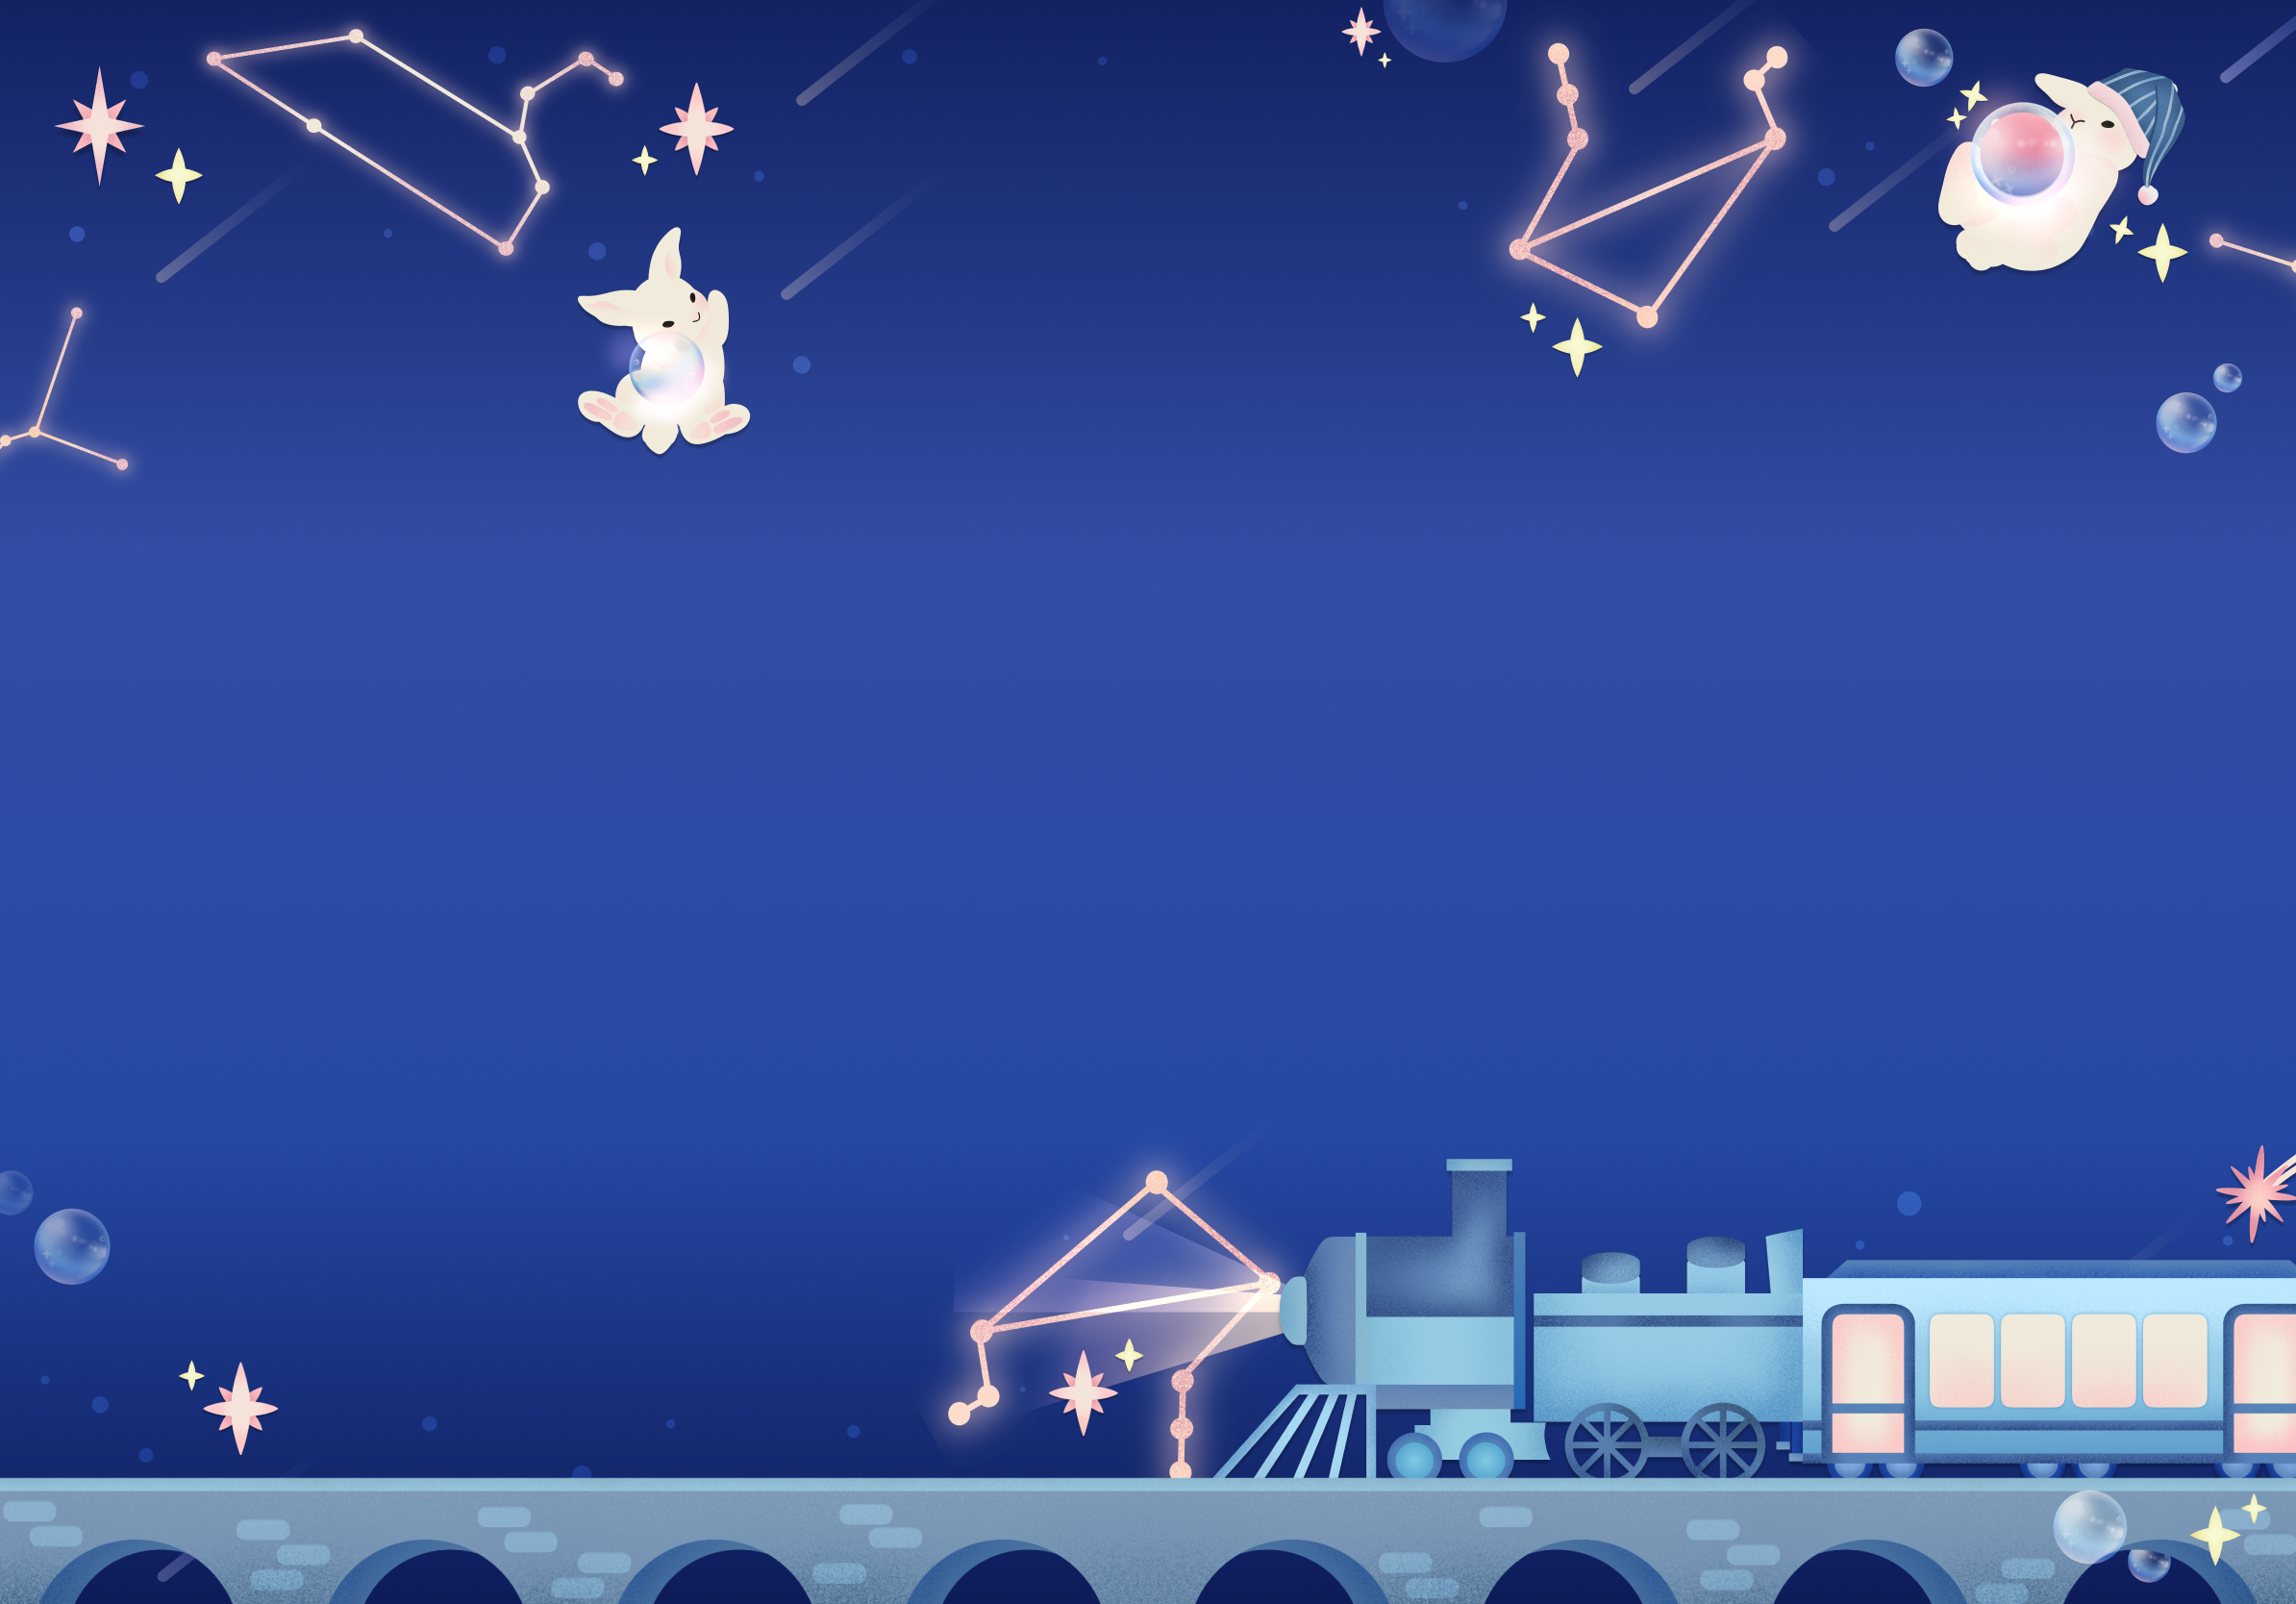
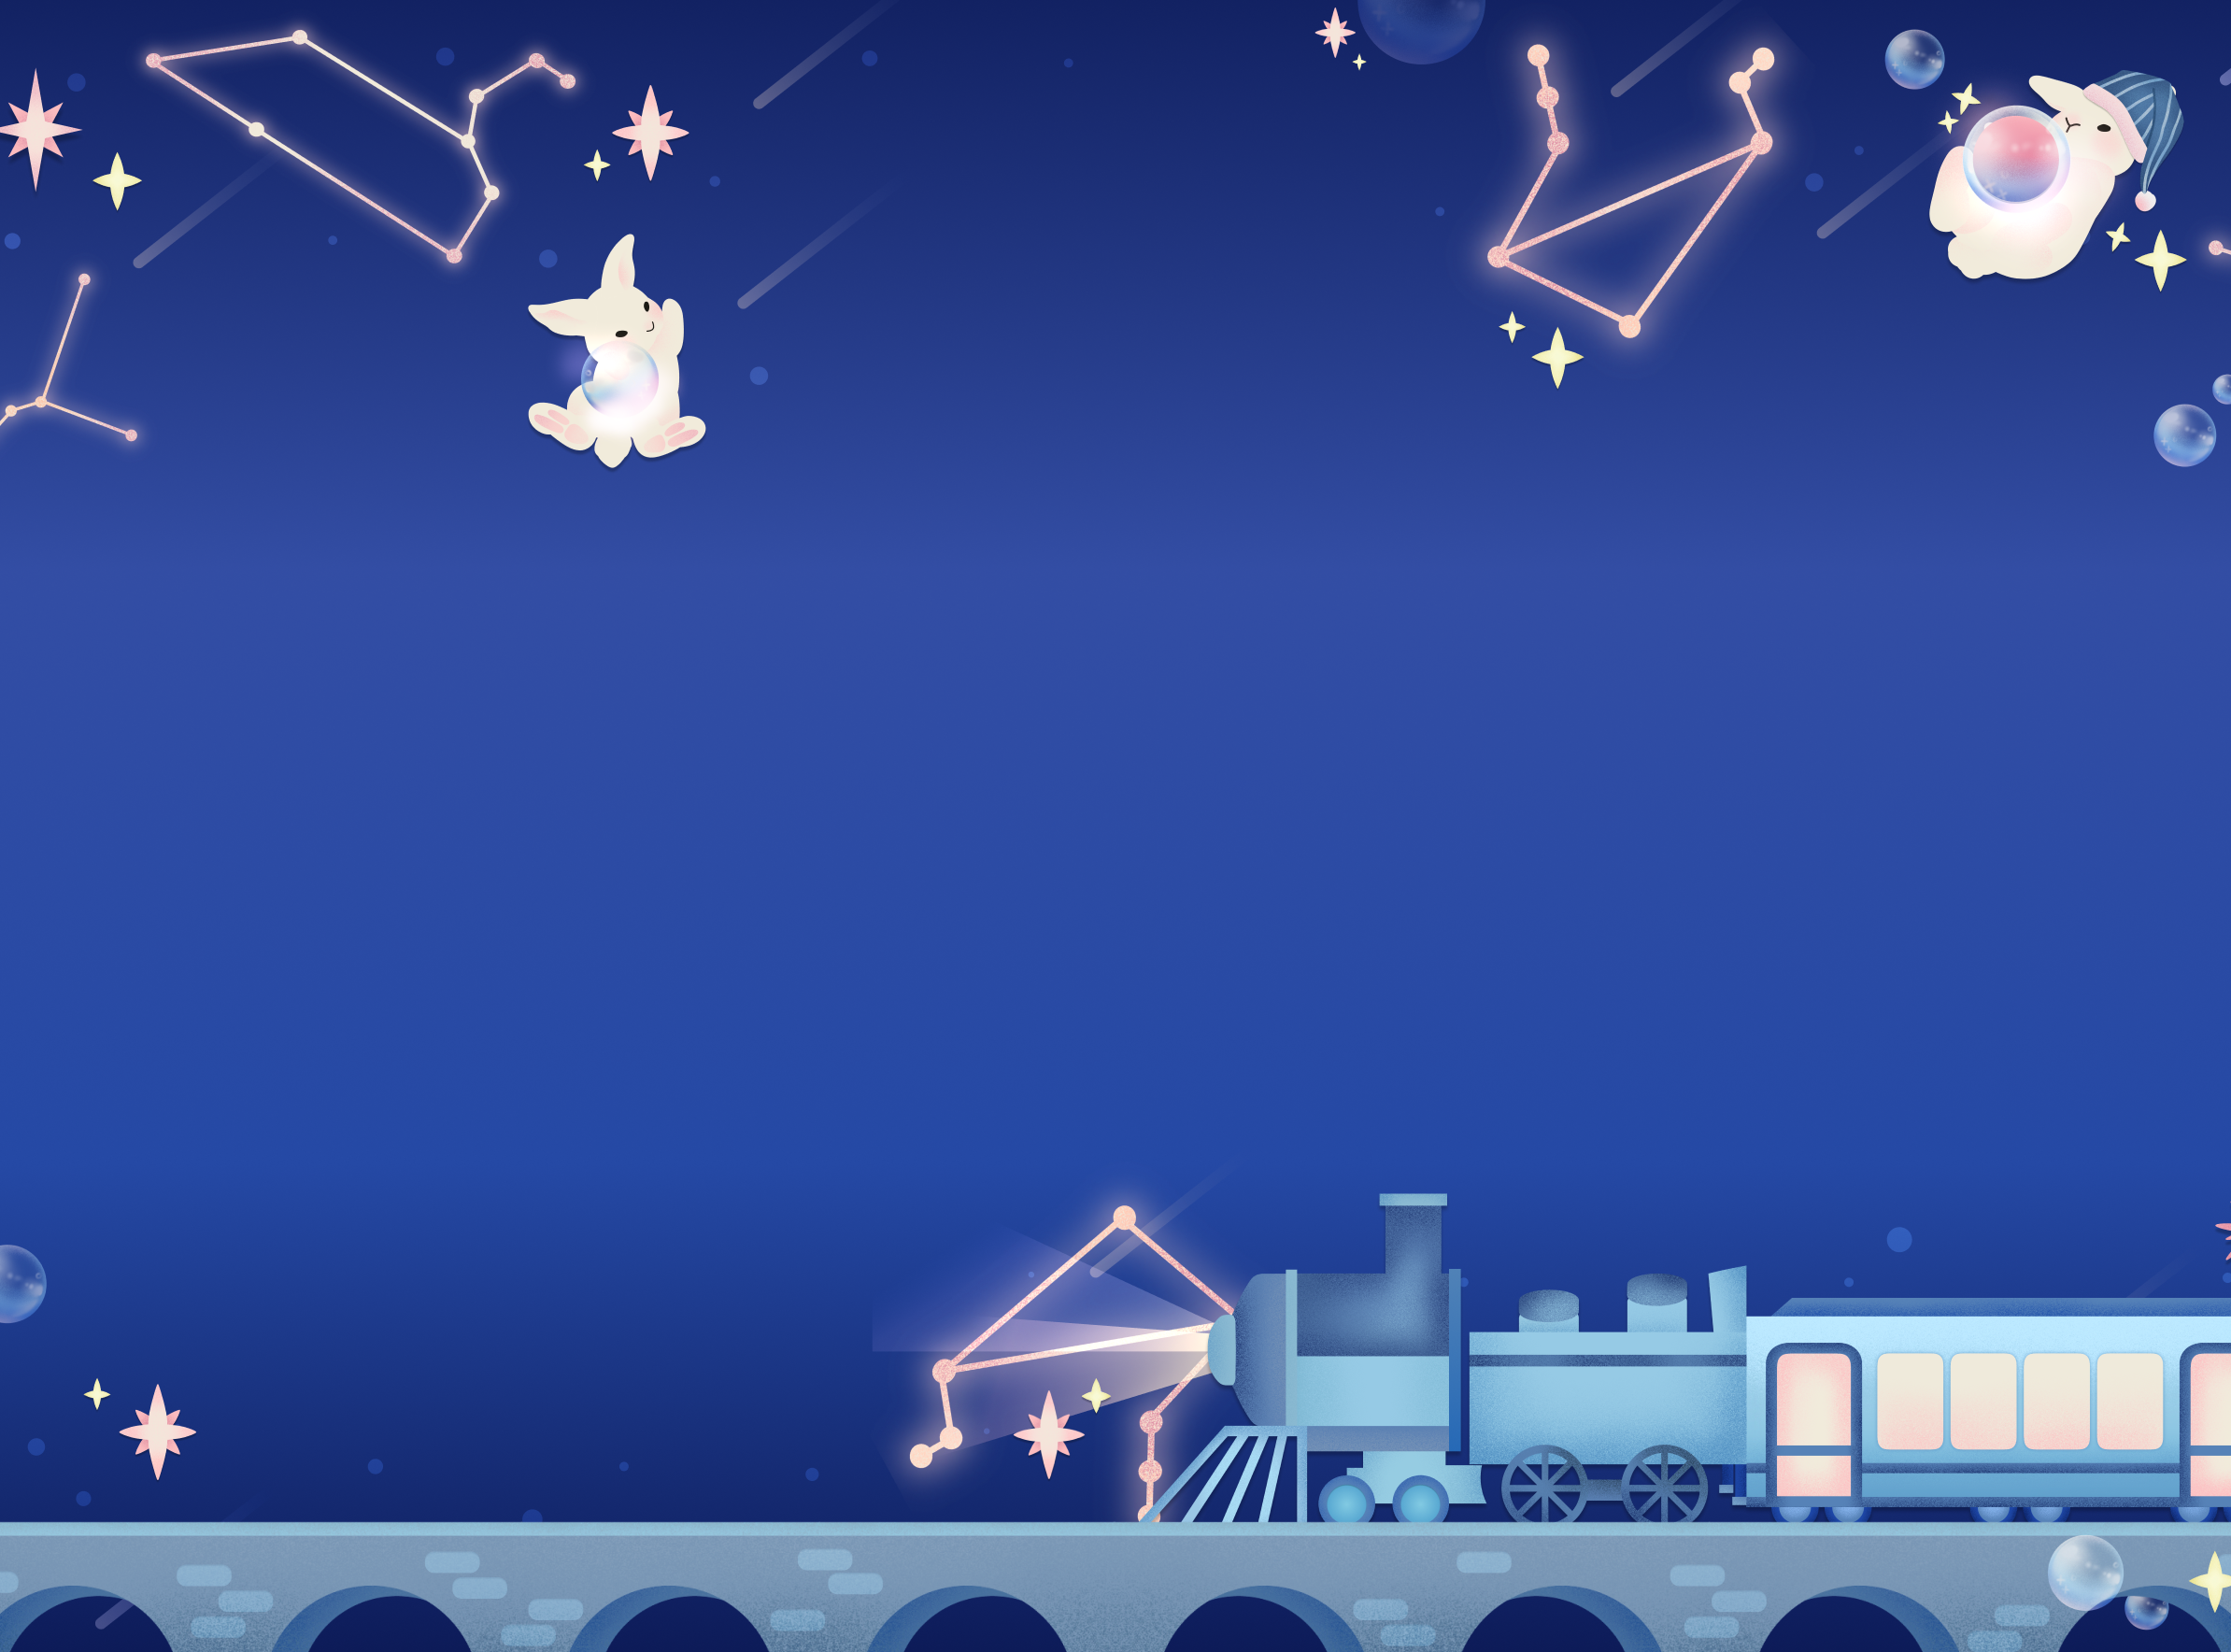
Merge pull request #55 from minenersGaming/redo
To keep up to date

Pull request: To keep up to date

diff --git a/src/utils/screenshot.ts b/src/utils/screenshot.ts
@@ -2,10 +2,14 @@ import chromium from "@sparticuz/chromium"
 import puppeteer from "puppeteer-core"
 
 export default async function screenshot(url: string, width: number = 2388, height: number = 1768) {
+  const isVercel = process.env.VERCEL === "1"
+
   const browser = await puppeteer.launch({
-    args: chromium.args,
+    args: isVercel ? chromium.args : ["--no-sandbox"],
     defaultViewport: { width, height },
-    executablePath: await chromium.executablePath(),
+    executablePath: isVercel
+      ? await chromium.executablePath()
+      : "C:\\Program Files\\Google\\Chrome\\Application\\chrome.exe",
     headless: true,
   })
   const page = await browser.newPage()

diff --git a/src/utils/constants.ts b/src/utils/constants.ts
@@ -14,9 +14,9 @@ export const opt3 = [
   332, 333, 334, 335, 336, 341, 443, 444, 445, 446, 447, 448, 632, 633, 634, 651, 652, 654, 655, 656, 812, 813, 814,
   815, 822, 823, 824, 825, 832, 833, 931, 932, 933, 934, 935, 936,
 ]
-export const opt4 = [657, 937]
+export const opt4 = [28, 657, 937]
 export const opt5 = [
-  28, 29, 32, 38, 39, 48, 49, 58, 59, 76, 77, 78, 79, 80, 81, 125, 126, 143, 144, 145, 146, 154, 155, 156, 222, 223,
-  224, 225, 226, 227, 228, 229,
+  29, 32, 38, 39, 48, 49, 58, 59, 76, 77, 78, 79, 80, 81, 125, 126, 143, 144, 145, 146, 154, 155, 156, 222, 223, 224,
+  225, 226, 227, 228, 229,
 ]
 export const opt6 = [73, 74, 75, 153]

diff --git a/src/components/LearnSchedule/Page.tsx b/src/components/LearnSchedule/Page.tsx
@@ -257,11 +257,12 @@ export const LearnSchedulePage: FC<{
           <br />
         </p>
 
-        <div className="mt-6 flex flex-col space-y-2">
+        <div className="mt-6 flex  cursor-not-allowed flex-col space-y-2 opacity-50 transition-opacity hover:opacity-20">
           {!loggedUser ? (
             <>
               <p className={`text-sm ${tertiaryTextColor}`}>เข้าสู่ระบบเพื่อบันทึกธีมสีของคุณ</p>
-              <div className="w-48 transition-transform hover:scale-105">
+              {/* <div className="w-48 transition-transform hover:scale-105"> */}
+              <div className="pointer-events-none w-48 cursor-not-allowed ">
                 <TUCMCLogin />
               </div>
             </>

diff --git a/src/components/Background/lapatisserie.tsx b/src/components/Background/lapatisserie.tsx
@@ -5,7 +5,7 @@ export const LaPatisseriePreview: FC = () => {
   return (
     <div className="absolute top-0 left-0 z-[2] h-full w-full">
       {/* <Image src="/assets/christmas-bg-preview.png" width={2388} height={1668} /> */}
-      <Image src="/assets/lapatisserie.png" width={2600} height={1768} alt={""} />
+      <Image src="/assets/lapatisserie-preview.png" width={2600} height={1768} alt={""} />
     </div>
   )
 }
@@ -14,7 +14,7 @@ export const LaPatisserie: FC = () => {
   return (
     <div className="absolute top-[0px] left-0 -z-[2] h-[1886px] w-[2700px] ">
       {/* <Image src="/assets/christmas-bg.png" width={2388} height={1668} /> */}
-      <Image src="/assets/lapatisserie.png" width={2550} height={1886} alt={""} />
+      <Image src="/assets/lapatisserie.png" width={2388} height={1768} alt={""} />
     </div>
   )
 }

diff --git a/src/components/Background/starlightexpress.tsx b/src/components/Background/starlightexpress.tsx
@@ -5,7 +5,7 @@ export const StarlightExpressPreview: FC = () => {
   return (
     <div className="absolute top-0 left-0 z-[2] h-full w-full">
       {/* <Image src="/assets/christmas-bg-preview.png" width={2388} height={1668} /> */}
-      <Image src="/assets/starlightexpress.png" width={2600} height={1768} alt={""} />
+      <Image src="/assets/starlightexpress-preview.png" width={2600} height={1768} alt={""} />
     </div>
   )
 }
@@ -14,7 +14,7 @@ export const StarlightExpress: FC = () => {
   return (
     <div className="absolute top-[0px] left-0 -z-[2] h-[1886px] w-[2700px] ">
       {/* <Image src="/assets/christmas-bg.png" width={2388} height={1668} /> */}
-      <Image src="/assets/starlightexpress.png" width={2550} height={1886} alt={""} />
+      <Image src="/assets/starlightexpress.png" width={2388} height={1768} alt={""} />
     </div>
   )
 }

diff --git a/src/components/Background/thecastleofcountlesslegacies.tsx b/src/components/Background/thecastleofcountlesslegacies.tsx
@@ -5,7 +5,7 @@ export const TheCastleOfCountlessLegaciesPreview: FC = () => {
   return (
     <div className="absolute top-0 left-0 z-[2] h-full w-full">
       {/* <Image src="/assets/christmas-bg-preview.png" width={2388} height={1668} /> */}
-      <Image src="/assets/thecastleofcountlesslegacies.png" width={2600} height={1768} alt={""} />
+      <Image src="/assets/thecastleofcountlesslegacies-preview.png" width={2600} height={1768} alt={""} />
     </div>
   )
 }
@@ -14,7 +14,7 @@ export const TheCastleOfCountlessLegacies: FC = () => {
   return (
     <div className="absolute top-[0px] left-0 -z-[2] h-[1668px] w-[2700px] ">
       {/* <Image src="/assets/christmas-bg.png" width={2388} height={1668} /> */}
-      <Image src="/assets/thecastleofcountlesslegacies.png" width={2550} height={1568} alt={""} />
+      <Image src="/assets/thecastleofcountlesslegacies.png" width={2388} height={1768} alt={""} />
     </div>
   )
 }

diff --git a/next-env.d.ts b/next-env.d.ts
@@ -1,6 +1,6 @@
 /// <reference types="next" />
 /// <reference types="next/image-types/global" />
-import "./.next/types/routes.d.ts";
+import "./.next/dev/types/routes.d.ts";
 
 // NOTE: This file should not be edited
 // see https://nextjs.org/docs/pages/api-reference/config/typescript for more information.

diff --git a/src/config/defaultTheme.ts b/src/config/defaultTheme.ts
@@ -199,7 +199,7 @@ export const DefaultTheme: Record<string, ColorTheme> = {
   starlightexpress: {
     name: "Starlight Express",
     bg: hexToRgbA("#1A3483"),
-    t1: hexToRgbA("#FFFFFF"),
+    t1: hexToRgbA("#FFA8D3"),
     t2: hexToRgbA("#FFFFFF"),
     c1: hexToRgbA("#F2ABBF"),
     c2: hexToRgbA("#1A3483"),